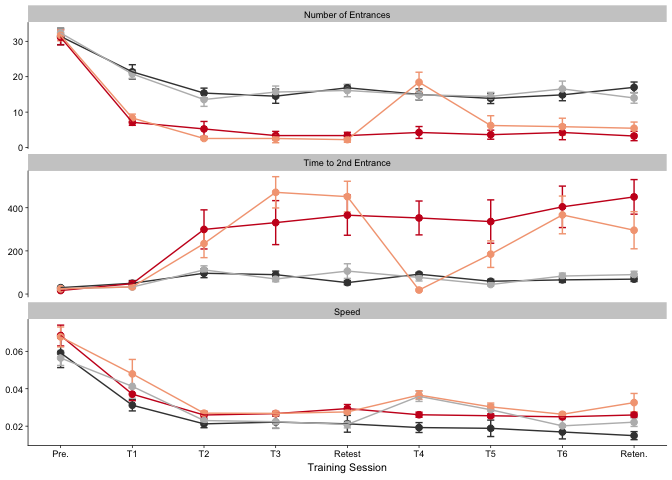
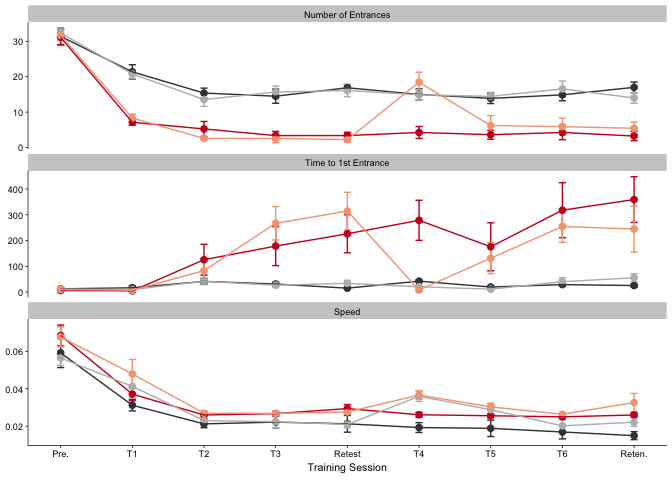
for fmr1 analysis

diff --git a/scripts/01a_beahvior_analysis.md b/scripts/01a_beahvior_analysis.md
@@ -1078,33 +1078,37 @@ frames
     ## time second entrance
     Time2ndEntr <- dplyr::summarise(group_by(behavior, APA2, TrainSessionComboNum), m = mean(Time2ndEntr), se = sd(Time2ndEntr)/sqrt(length(Time2ndEntr)))
 
+    ## time second entrance
+    Time1Entr <- dplyr::summarise(group_by(behavior, APA2, TrainSessionComboNum), m = mean(Time1stEntr), se = sd(Time1stEntr)/sqrt(length(Time1stEntr)))
+
+
     ## create the column for faceting
     behaviorsummaryNumAPA2$measure <- "Number of Entrances"
     speedsummary$measure <- "Speed"
-    Time2ndEntr$measure <- "Time to 2nd Entrance"
+    Time1Entr$measure <- "Time to 1st Entrance"
 
     # rbind
-    threeplots <- rbind(behaviorsummaryNumAPA2,speedsummary, Time2ndEntr)
+    threeplots <- rbind(behaviorsummaryNumAPA2,speedsummary, Time1Entr)
 
     # set factors
     threeplots$APA2 <- factor(threeplots$APA2, levels = c("yoked-consistent" ,"consistent", "yoked-conflict", "conflict"))
-    threeplots$measure <- factor(threeplots$measure, levels = c("Number of Entrances" ,   "Time to 2nd Entrance", "Speed"))
+    threeplots$measure <- factor(threeplots$measure, levels = c("Number of Entrances" ,   "Time to 1st Entrance", "Speed"))
     summary(threeplots)
 
     ##                APA2    TrainSessionComboNum       m           
     ##  yoked-consistent:27   Min.   :1            Min.   :  0.0149  
     ##  consistent      :27   1st Qu.:3            1st Qu.:  0.0351  
-    ##  yoked-conflict  :27   Median :5            Median : 14.2222  
-    ##  conflict        :27   Mean   :5            Mean   : 59.2463  
-    ##                        3rd Qu.:7            3rd Qu.: 48.7872  
-    ##                        Max.   :9            Max.   :471.4978  
+    ##  yoked-conflict  :27   Median :5            Median :  8.1628  
+    ##  conflict        :27   Mean   :5            Mean   : 36.5275  
+    ##                        3rd Qu.:7            3rd Qu.: 22.3431  
+    ##                        Max.   :9            Max.   :359.2163  
     ##        se                            measure  
     ##  Min.   :  0.00044   Number of Entrances :36  
-    ##  1st Qu.:  0.00392   Time to 2nd Entrance:36  
-    ##  Median :  1.51376   Speed               :36  
-    ##  Mean   : 13.00903                            
-    ##  3rd Qu.:  8.37054                            
-    ##  Max.   :101.93841
+    ##  1st Qu.:  0.00392   Time to 1st Entrance:36  
+    ##  Median :  1.49536   Speed               :36  
+    ##  Mean   : 10.83833                            
+    ##  3rd Qu.:  3.85247                            
+    ##  Max.   :106.74167
 
     behaviorwrap <- ggplot(threeplots, aes(x=, TrainSessionComboNum, y=m, color=APA2)) + 
         geom_errorbar(aes(ymin=m-se, ymax=m+se, color=APA2), width=.1) +
@@ -1133,67 +1137,84 @@ frames
     ## quartz_off_screen 
     ##                 2
 
-    ezANOVA(behavior, dv = NumEntrances, wid = ID, detailed = F,
-            within = TrainSessionCombo, between = APA2)
+This chunk is for creating files and figures for the FMR1 chapter
+=================================================================
 
-    ## Warning: Data is unbalanced (unequal N per group). Make sure you specified
-    ## a well-considered value for the type argument to ezANOVA().
+    ## This is for the FMR1 chapter
+    Path1Entr <- dplyr::summarise(group_by(behavior, APA2, TrainSessionComboNum), m = mean(Path1stEntr), se = sd(Path1stEntr)/sqrt(length(Path1stEntr)))
 
-    ## $ANOVA
-    ##                   Effect DFn DFd         F            p p<.05       ges
-    ## 2                   APA2   3  30 33.733594 9.693702e-10     * 0.5131907
-    ## 3      TrainSessionCombo   8 240 95.850114 2.521202e-70     * 0.6871626
-    ## 4 APA2:TrainSessionCombo  24 240  5.140122 6.424403e-12     * 0.2611096
-    ## 
-    ## $`Mauchly's Test for Sphericity`
-    ##                   Effect          W            p p<.05
-    ## 3      TrainSessionCombo 0.06018833 8.036245e-05     *
-    ## 4 APA2:TrainSessionCombo 0.06018833 8.036245e-05     *
-    ## 
-    ## $`Sphericity Corrections`
-    ##                   Effect       GGe        p[GG] p[GG]<.05       HFe
-    ## 3      TrainSessionCombo 0.5852923 3.270168e-42         * 0.7067817
-    ## 4 APA2:TrainSessionCombo 0.5852923 9.356868e-08         * 0.7067817
-    ##          p[HF] p[HF]<.05
-    ## 3 1.874137e-50         *
-    ## 4 5.567995e-09         *
+    NumEntr <- dplyr::summarise(group_by(behavior, APA2, TrainSessionComboNum), m = mean(NumEntrances), se = sd(NumEntrances)/sqrt(length(NumEntrances)))
 
-    ezANOVA(behavior, dv = Time2ndEntr, wid = ID, detailed = F,
-            within = TrainSessionCombo, between = APA2)
+    Path1Entr$results <- "Expected Results"
+    NumEntr$results <- "Expected Results"
+    Path1Entr$measure <- "Path to the 1st Entrance"
+    NumEntr$measure <- "Number of entrances"
 
-    ## Warning: Data is unbalanced (unequal N per group). Make sure you specified
-    ## a well-considered value for the type argument to ezANOVA().
+    PathNum <- rbind(Path1Entr,NumEntr)
 
-    ## $ANOVA
-    ##                   Effect DFn DFd         F            p p<.05       ges
-    ## 2                   APA2   3  30 12.484195 1.801800e-05     * 0.3238047
-    ## 3      TrainSessionCombo   8 240 15.849193 1.028496e-18     * 0.2456594
-    ## 4 APA2:TrainSessionCombo  24 240  5.301402 2.238112e-12     * 0.2463021
-    ## 
-    ## $`Mauchly's Test for Sphericity`
-    ##                   Effect           W            p p<.05
-    ## 3      TrainSessionCombo 0.008153253 9.907594e-13     *
-    ## 4 APA2:TrainSessionCombo 0.008153253 9.907594e-13     *
-    ## 
-    ## $`Sphericity Corrections`
-    ##                   Effect       GGe        p[GG] p[GG]<.05       HFe
-    ## 3      TrainSessionCombo 0.5902759 6.083328e-12         * 0.7140083
-    ## 4 APA2:TrainSessionCombo 0.5902759 4.425697e-08         * 0.7140083
-    ##          p[HF] p[HF]<.05
-    ## 3 5.415810e-14         *
-    ## 4 2.202366e-09         *
+    numenrwt15 <- PathNum  %>% 
+      #filter(TrainSessionComboNum != "1", TrainSessionComboNum != "9") %>% 
+      filter(measure == "Number of entrances") %>% 
+      droplevels()  %>% 
+      ggplot(aes(x=, TrainSessionComboNum, y=m, color=APA2)) + 
+        geom_errorbar(aes(ymin=m-se, ymax=m+se), width=.1) +
+        geom_point(size = 2) +
+       geom_line(aes(colour=APA2)) +
+       scale_y_continuous(name= "Number of Entrances",
+                          limits = c(0,35)) +
+        scale_x_continuous(name="Training Session", 
+                           breaks = c(1, 2, 3, 4, 5, 6, 7, 8, 9),
+                           labels = c( "Pre.", "T1", "T2", "T3",
+                                       "Retest", 
+                                       "C1", "C2", "C3", "Reten.")) +
+      theme_cowplot(font_size = 8, line_size = 0.25) +
+      background_grid(major = "y", minor="non") +
+      scale_color_manual(values = colorvalAPA00)  +
+      theme(legend.title=element_blank()) +
+      theme(legend.position="none") +
+      scale_shape_manual(values=c(16, 1)) 
+    numenrwt15
 
-    cor.test(behavior$NumEntrances, behavior$Time2ndEntr, method = "kendall")
+![](../figures/01_behavior/forFMR1-1.png)
 
-    ## 
-    ##  Kendall's rank correlation tau
-    ## 
-    ## data:  behavior$NumEntrances and behavior$Time2ndEntr
-    ## z = -14.043, p-value < 2.2e-16
-    ## alternative hypothesis: true tau is not equal to 0
-    ## sample estimates:
-    ##        tau 
-    ## -0.5519762
+    pdf(file="../../FMR1CA1rnaseq/figures/01_behavior/numenrwt15.pdf", width=2.25, height=2)
+    plot(numenrwt15)
+    dev.off()
+
+    ## quartz_off_screen 
+    ##                 2
+
+    pathentrwt15 <- PathNum  %>% 
+      #filter(TrainSessionComboNum != "1", TrainSessionComboNum != "9") %>% 
+      filter(measure == "Path to the 1st Entrance") %>% 
+      droplevels()  %>% 
+      ggplot(aes(x=, TrainSessionComboNum, y=m, color=APA2)) + 
+        geom_errorbar(aes(ymin=m-se, ymax=m+se), width=.1) +
+        geom_point(size = 2) +
+       geom_line(aes(colour=APA2)) +
+       scale_y_continuous(name= "Path to the 1st Entrance",
+                          limits = c(0,17.5)) +
+        scale_x_continuous(name="Training Session", 
+                           breaks = c(1, 2, 3, 4, 5, 6, 7, 8, 9),
+                           labels = c( "Pre.", "T1", "T2", "T3",
+                                       "Retest", "C1", "C2", 
+                                       "C3", "Reten.")) +
+      theme_cowplot(font_size = 8, line_size = 0.25) +
+      background_grid(major = "y", minor="non") +
+      scale_color_manual(values = colorvalAPA00)  +
+      theme(legend.title=element_blank()) +
+      theme(legend.position="none") +
+      scale_shape_manual(values=c(16, 1)) 
+    pathentrwt15
+
+![](../figures/01_behavior/forFMR1-2.png)
+
+    pdf(file="../../FMR1CA1rnaseq/figures/01_behavior/pathentrwt15.pdf", width=2.25, height=2)
+    plot(pathentrwt15)
+    dev.off()
+
+    ## quartz_off_screen 
+    ##                 2
 
 Hierarchical clusering of time series behavioral data
 -----------------------------------------------------
